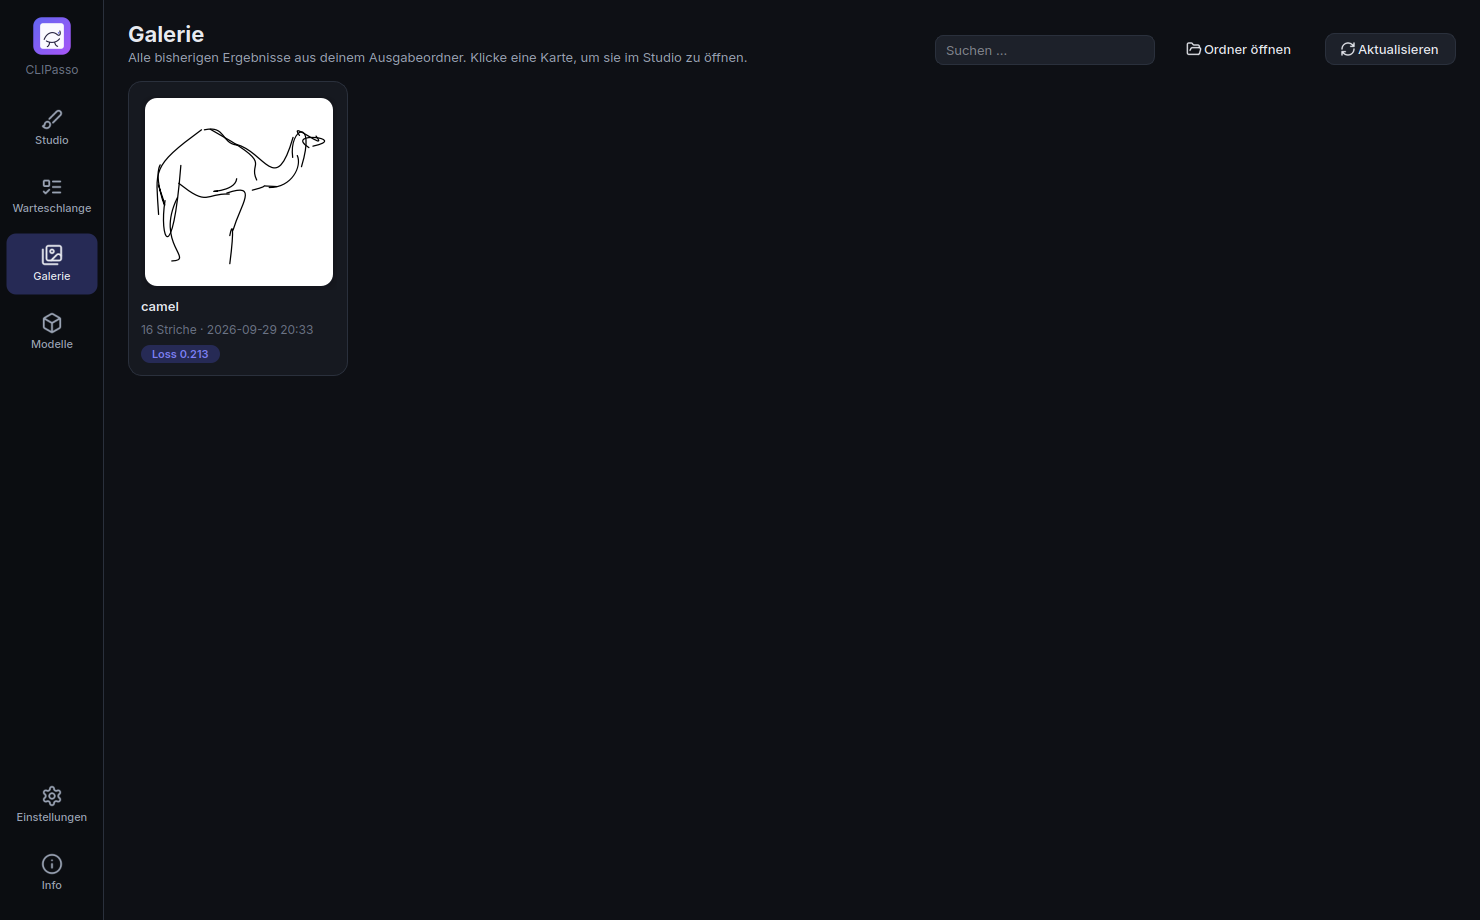
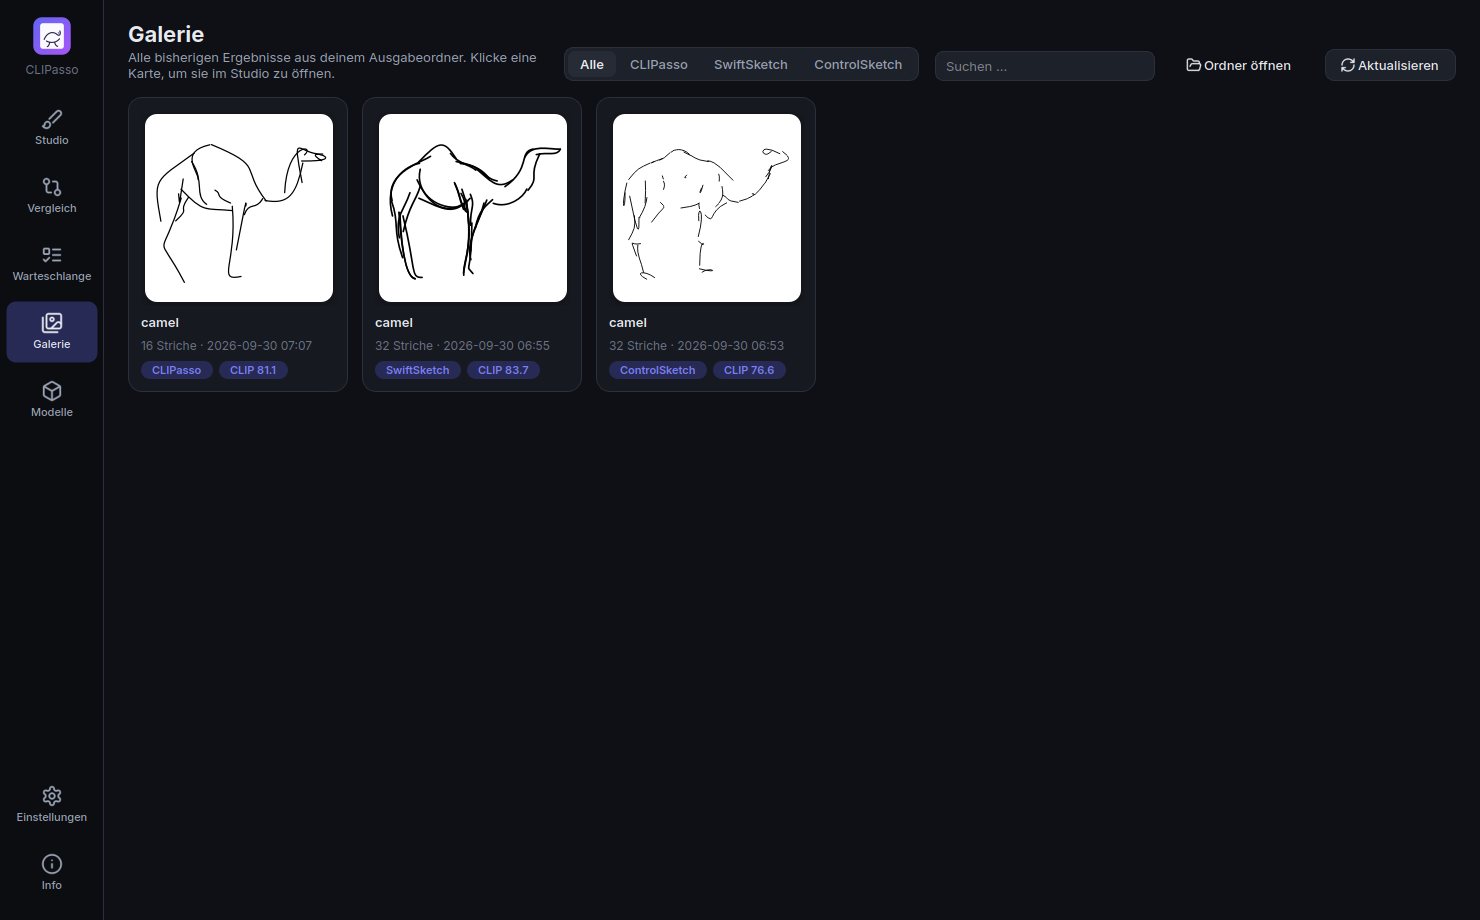
README: results and screenshots of all three methods
- methods_camel.png: the camel sample sketched with CLIPasso, SwiftSketch and
  ControlSketch on a CPU (CLIP scores 81.1 / 83.7 / 76.6)
- SwiftSketch drawing animation next to the CLIPasso one
- studio, compare, gallery and models screenshots of version 2.0
- tools/screenshots.py --models shows downloaded models as installed

Claude-Session: https://claude.ai/code/session_01S7pgJpBq7v1cwD5D27gajo

diff --git a/tools/screenshots.py b/tools/screenshots.py
@@ -28,11 +28,19 @@ def main() -> int:
     ap.add_argument("--lang", default="de")
     ap.add_argument("--pages", default="studio,compare,queue,gallery,models,settings,about")
     ap.add_argument("--size", default="1480x920")
+    ap.add_argument("--models", default="", help="folder of downloaded models to show as installed")
     args = ap.parse_args()
 
     # isolated user data so the real settings are untouched
     os.environ["XDG_DATA_HOME"] = tempfile.mkdtemp()
     os.environ["LOCALAPPDATA"] = os.environ["XDG_DATA_HOME"]
+    if args.models:
+        from clipasso_studio import paths as _paths
+
+        target = _paths.user_data_dir() / "models"
+        if target.exists():
+            target.rmdir()
+        os.symlink(os.path.abspath(args.models), target)
 
     from PySide6.QtCore import QTimer
     from PySide6.QtWidgets import QApplication

diff --git a/README.md b/README.md
@@ -23,7 +23,7 @@
 <p align="center">
   <img src="docs/screenshots/methods_camel.png" width="820" alt="Ein Foto, drei Methoden">
 </p>
-<p align="center"><sub>Mit dieser App erzeugt (CPU): Eingabe, CLIPasso (16 Striche), SwiftSketch (32 Striche, 4 Sekunden), ControlSketch (32 Striche).</sub></p>
+<p align="center"><sub>Mit dieser App auf einer CPU erzeugt: CLIPasso (16 Striche, Preset „Schnell“, 11 Min.), SwiftSketch (32 Striche, 4 s pro Skizze), ControlSketch (32 Striche – nur 250 der 2000 Iterationen, 67 Min.; mit einer NVIDIA-GPU läuft der volle Durchlauf in wenigen Minuten).</sub></p>
 
 ![Studio](docs/screenshots/studio_dark_de.png)
 
@@ -50,6 +50,12 @@ Oben im Studio wählst du die Methode per Klick; Parameter, Presets, Zeitschätz
 | Striche | frei wählbar (1–256), Mehrstufen-Training | fest 32 (so trainiert) | frei wählbar (Standard 32) |
 | Modelle | enthalten | ≈ 710 MB, beim ersten Einsatz | ≈ 3–4 GB (SD 1.5, ControlNet, Detektor, BLIP), beim ersten Einsatz |
 | Stärken | sehr anpassbar, Abstraktionsgrad, Text-Führung | blitzschnell, sauberer „Künstler“-Strich | sehr natürliche, detailreiche Skizzen |
+
+<p align="center">
+  <img src="docs/screenshots/camel_drawing.gif" width="260" alt="CLIPasso optimiert die Striche">
+  <img src="docs/screenshots/swiftsketch_camel.gif" width="260" alt="SwiftSketch entrauscht die Striche">
+</p>
+<p align="center"><sub>Links: CLIPasso optimiert die Striche. Rechts: SwiftSketch formt sie in 50 Entrauschungsschritten aus Rauschen (GIF-Export der App).</sub></p>
 
 **Welche passt zu meinem Bild?** Die Seite **Vergleich** zeichnet das aktuelle Bild mit allen gewählten Methoden (Standard-Preset oder deine Studio-Einstellungen), stellt die Ergebnisse nebeneinander – mit CLIP-Score, Rechenzeit und Strichzahl – und markiert die Methode mit dem höchsten CLIP-Score. Frühere Ergebnisse zum selben Bild werden automatisch angezeigt.
 
